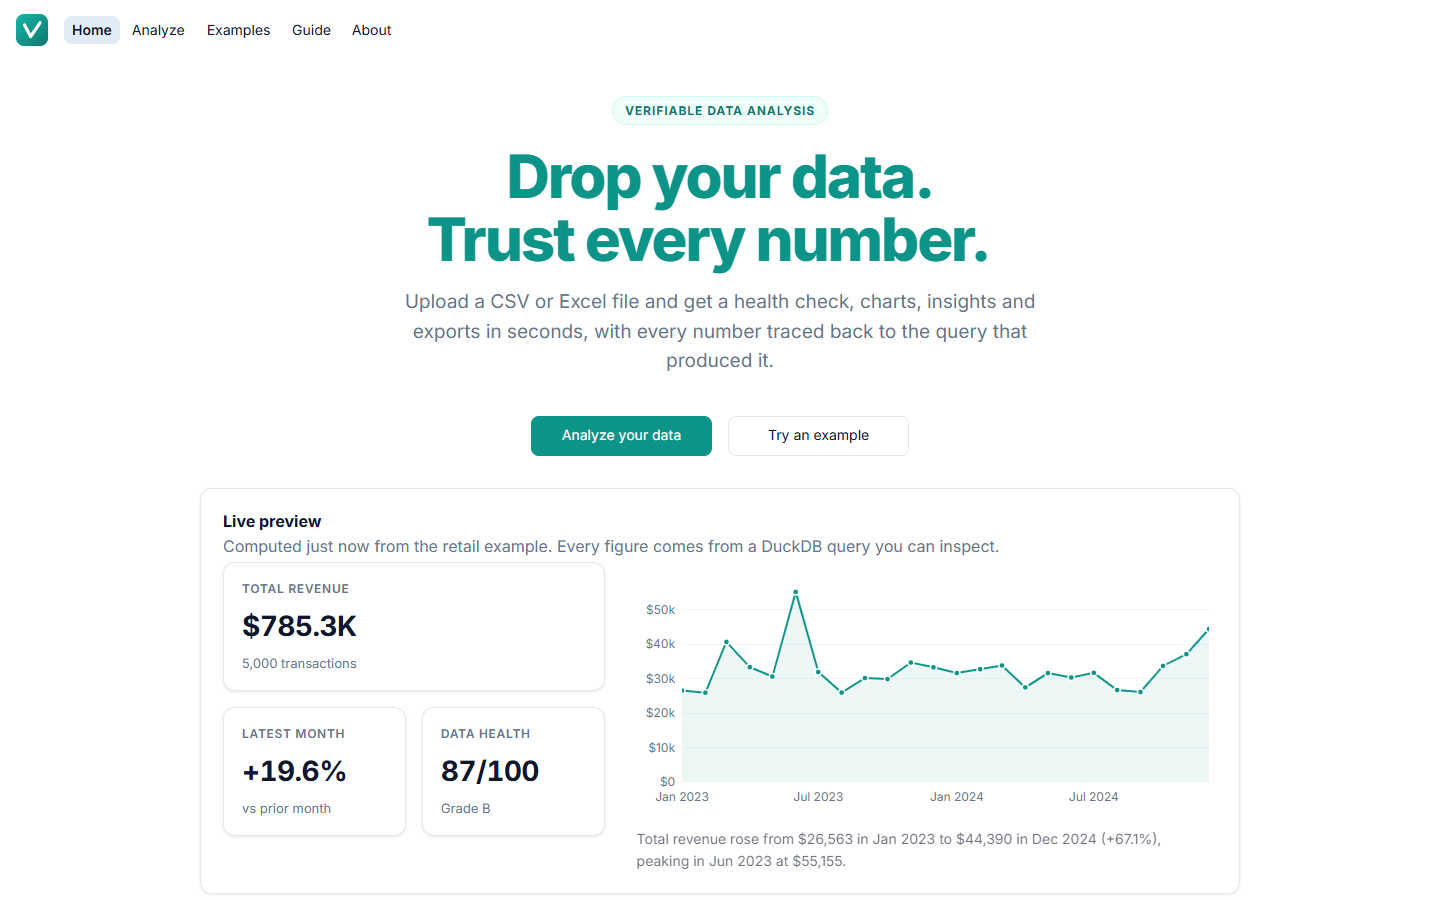
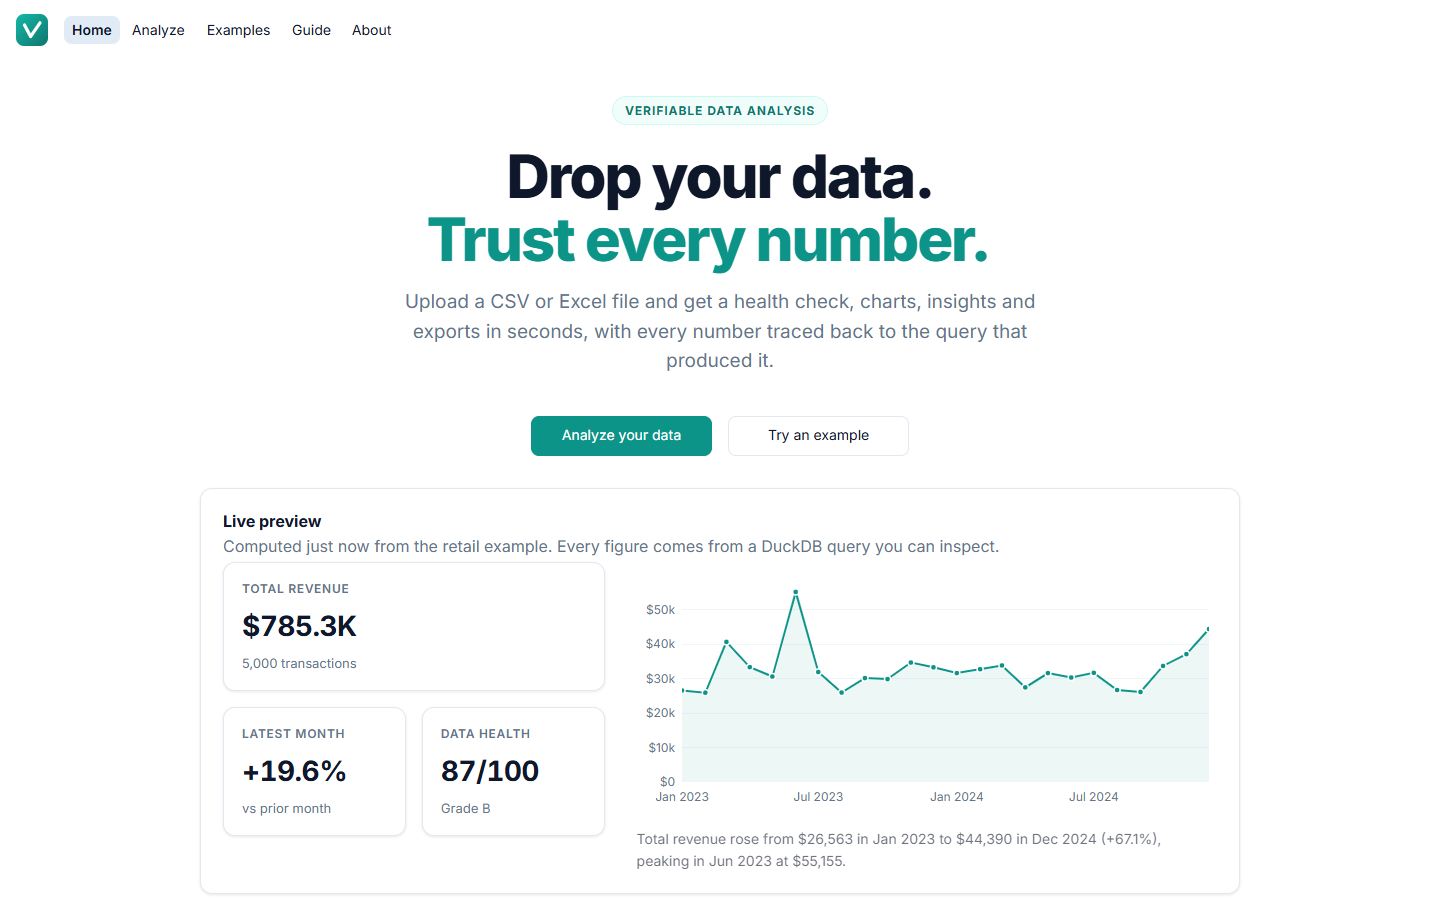
fix: color only the second hero line teal and link the Streamlit badge
Streamlit wraps heading text in its own span, so the hero's span rule
colored the whole headline. The accent now uses an explicit class.
The README's Streamlit badge links to the live app, and the hero
screenshot is refreshed.

Changed region(s): [[0.3438, 0.1556, 0.6562, 0.2489]]

diff --git a/ui/theme.py b/ui/theme.py
@@ -138,7 +138,7 @@ div[class*="st-key-card"] {{
 .vd-hero h1 {{ font-size: clamp(36px, 5.5vw, 60px); line-height: 1.05; font-weight: 800;
   letter-spacing: -0.035em; margin: 0 auto 16px auto; max-width: 820px; padding: 0; }}
 .vd-hero h1, .vd-hero h1 * {{ color: var(--vd-text) !important; }}
-.vd-hero h1 span {{ color: var(--vd-primary) !important; }}
+.vd-hero h1 .vd-accent {{ color: var(--vd-primary) !important; }}
 .vd-hero p {{ font-size: 19px; color: var(--vd-muted); max-width: 640px; margin: 0 auto; line-height: 1.55; }}
 
 /* Section header */

diff --git a/views/home.py b/views/home.py
@@ -13,7 +13,7 @@ from ui.state import cached_analysis
 
 hero(
     "Verifiable data analysis",
-    "Drop your data.<br><span>Trust every number.</span>",
+    "Drop your data.<br><span class='vd-accent'>Trust every number.</span>",
     SUBHEAD,
 )
 _, b1, b2, _ = st.columns([2.2, 1.3, 1.3, 2.2], gap="small")

diff --git a/README.md b/README.md
@@ -9,7 +9,7 @@ exact query that produced it, and any AI-written sentence is fact-checked agains
 **Live demo:** [veridash.streamlit.app](https://veridash.streamlit.app)
 
 ![Python](https://img.shields.io/badge/Python-3776AB?logo=python&logoColor=white)
-![Streamlit](https://img.shields.io/badge/Streamlit-FF4B4B?logo=streamlit&logoColor=white)
+[![Streamlit](https://img.shields.io/badge/Streamlit-FF4B4B?logo=streamlit&logoColor=white)](https://veridash.streamlit.app)
 ![DuckDB](https://img.shields.io/badge/DuckDB-FFF000?logo=duckdb&logoColor=black)
 ![Plotly](https://img.shields.io/badge/Plotly-3F4F75?logo=plotly&logoColor=white)
 ![Gemini](https://img.shields.io/badge/Gemini-8E75B2?logo=googlegemini&logoColor=white)
